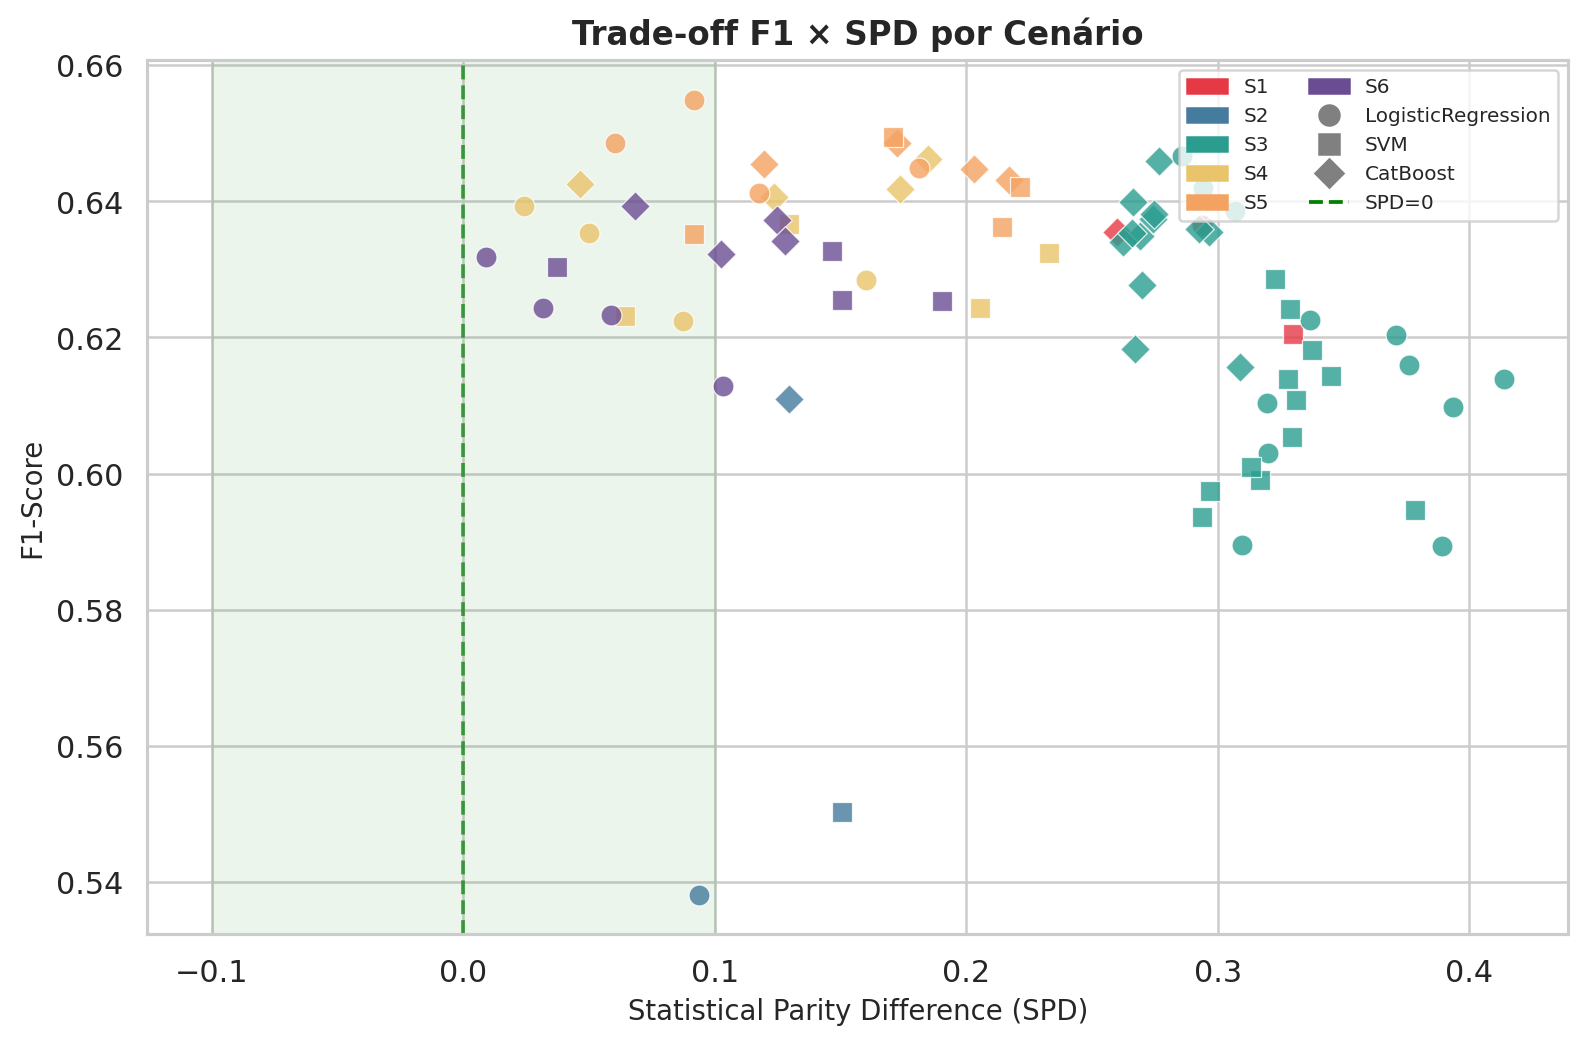
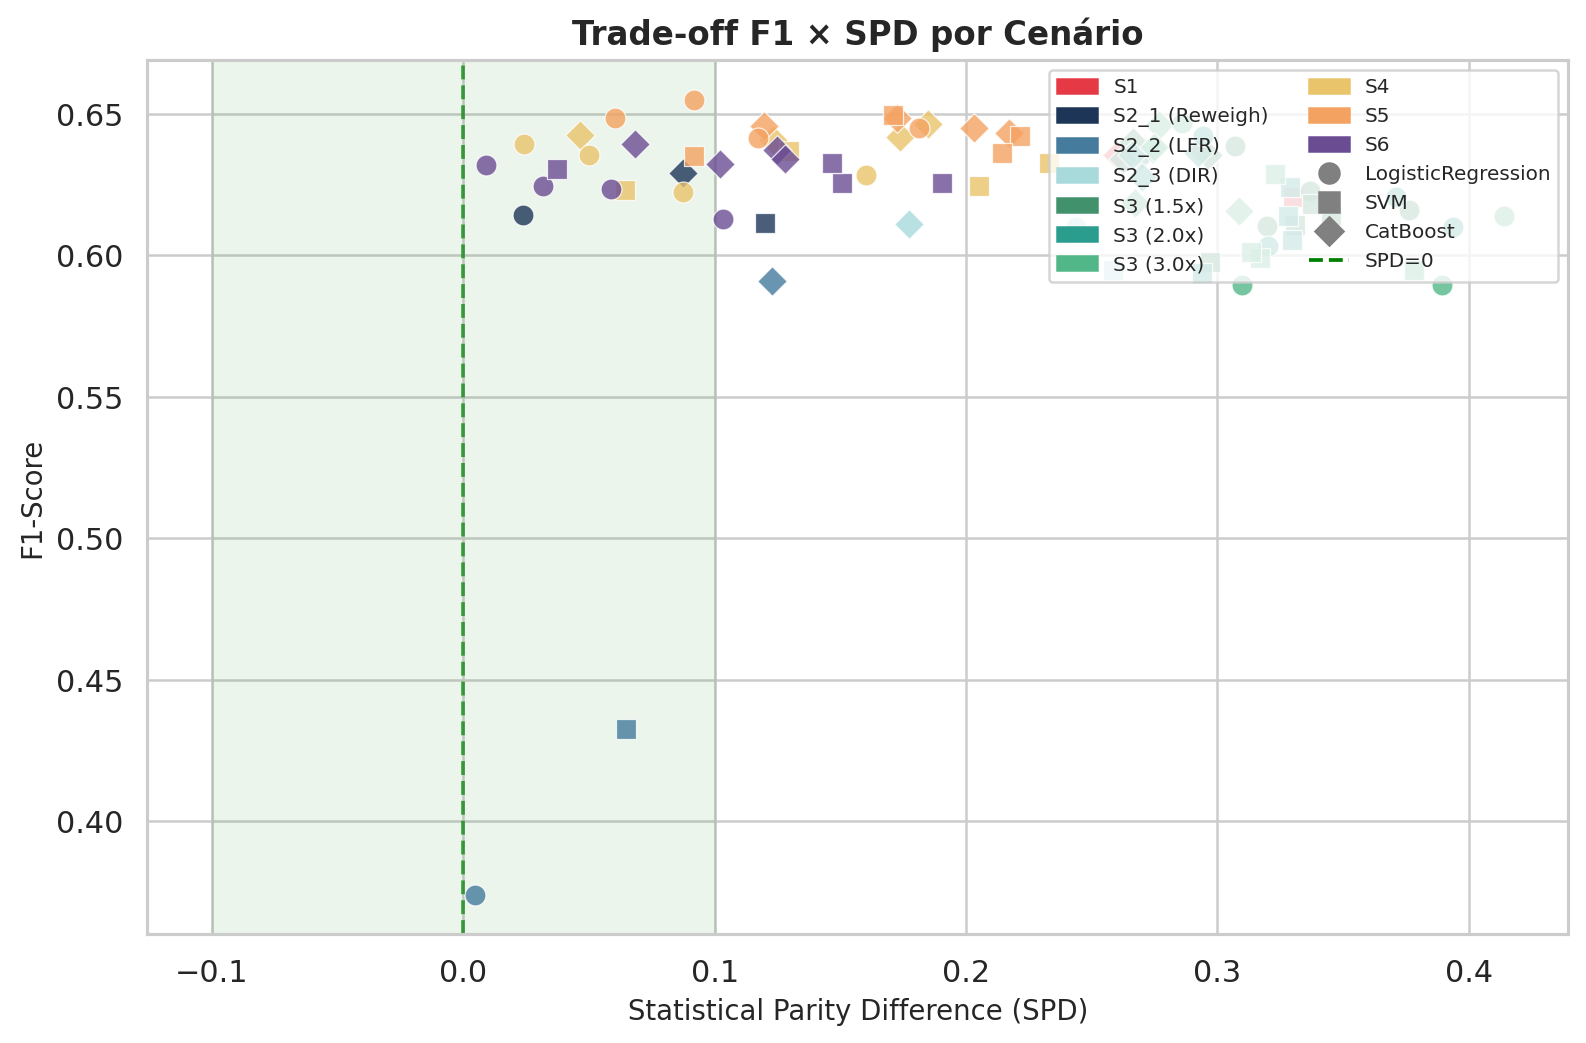
refactor: remove redundant individual plotting script and update paper figures for consistency

diff --git a/scripts/plots/generate_paper_plots.py b/scripts/plots/generate_paper_plots.py
@@ -44,83 +44,69 @@ def simplify_scenario(row):
 
 df['scenario_label'] = df.apply(simplify_scenario, axis=1)
 
-# ── PLOT 1.1: Baseline Bias ──────────────────────────────────────────────────
-print('Plot 1.1 – Baseline bias')
-s1 = df[df['scenario']=='S1']
-metrics_baseline = s1.groupby('model')[['disparate_impact','statistical_parity_difference']].mean().reset_index()
-fig, axes = plt.subplots(1, 2, figsize=(10, 4))
-colors = ['#e63946','#457b9d','#2a9d8f']
-for ax, col, title, ref, reflabel in [
-    (axes[0], 'disparate_impact', 'Disparate Impact (DI)', 1.0, 'Ideal DI=1'),
-    (axes[1], 'statistical_parity_difference', 'Statistical Parity Diff. (SPD)', 0.0, 'Ideal SPD=0'),
-]:
-    bars = ax.barh(metrics_baseline['model'], metrics_baseline[col], color=colors, edgecolor='white', height=0.5)
-    ax.axvline(ref, color='black', linestyle='--', lw=1.5, label=reflabel)
-    ax.set_title(title, fontweight='bold')
-    ax.set_xlabel(col.replace('_',' ').title())
-    for bar, val in zip(bars, metrics_baseline[col]):
-        ax.text(val + 0.01, bar.get_y() + bar.get_height()/2, f'{val:.2f}', va='center', fontsize=9)
-    ax.legend(fontsize=8)
-fig.suptitle('Bias no Baseline (S1) – Motivação do Paper', fontsize=13, fontweight='bold')
-save(fig, 'plot1_1_baseline_bias.png')
-
-# ── PLOT 1.2: Prediction rates by group ──────────────────────────────────────
-print('Plot 1.2 – Prediction rates by group')
-try:
-    pred_files = []
-    pred_dir = 'outputs/predictions'
-    if os.path.exists(pred_dir):
-        for f in os.listdir(pred_dir):
-            if f.endswith('.csv'):
-                pred_files.append(pd.read_csv(os.path.join(pred_dir, f)))
-    if pred_files:
-        preds = pd.concat(pred_files)
-        if 'race' in preds.columns and 'predicted' in preds.columns:
-            rates = preds.groupby(['scenario','race'])['predicted'].mean().reset_index()
-            fig, ax = plt.subplots(figsize=(8,4))
-            for i, sc in enumerate(['S1','S4','S5','S6']):
-                d = rates[rates['scenario']==sc]
-                if len(d) > 0:
-                    ax.bar([i-0.15, i+0.15],
-                           [d[d['race']==0]['predicted'].values[0] if len(d[d['race']==0])>0 else 0,
-                            d[d['race']==1]['predicted'].values[0] if len(d[d['race']==1])>0 else 0],
-                           width=0.28, color=['#e63946','#457b9d'])
-            ax.set_xticks(range(4)); ax.set_xticklabels(['S1','S4','S5','S6'])
-            ax.set_ylabel('Taxa de Predição Positiva')
-            ax.set_title('Predições por Grupo Racial por Cenário')
-            red_p = mpatches.Patch(color='#e63946', label='African-American')
-            blue_p = mpatches.Patch(color='#457b9d', label='Caucasian')
-            ax.legend(handles=[red_p, blue_p])
-            save(fig, 'plot1_2_group_prediction_rates.png')
-except Exception as e:
-    print(f'  skip 1.2: {e}')
-
 # ── PLOT 2.1: Pareto Scatter F1 vs DI ────────────────────────────────────────
 print('Plot 2.1 – Pareto scatter')
 means = df.groupby(['scenario','generator','model'])[['f1','disparate_impact','statistical_parity_difference']].mean().reset_index()
 
-def get_scenario_group(s):
-    if s=='S1': return 'S1'
-    if s.startswith('S2'): return 'S2'
-    if s.startswith('S3'): return 'S3'
-    if s=='S4': return 'S4'
-    if s=='S5': return 'S5'
-    if s=='S6': return 'S6'
-    return s
+# Map each scenario row to a fine-grained sub-group label.
+# S2 splits by mitigator (3 variants), S3 splits by alpha suffix (3 variants).
+_mitigator_map = {}
+for _, row in df[['scenario','mitigator']].drop_duplicates().iterrows():
+    s, m = row['scenario'], row['mitigator'] if pd.notna(row['mitigator']) else 'None'
+    if s == 'S2':
+        if m == 'Reweighing': _mitigator_map[s] = _mitigator_map.get(s, {})
+        _mitigator_map.setdefault(s, {})[m] = m  # will build below
 
-means['sg'] = means['scenario'].apply(get_scenario_group)
-sg_colors = {'S1':'#e63946','S2':'#457b9d','S3':'#2a9d8f','S4':'#e9c46a','S5':'#f4a261','S6':'#6a4c93'}
+# Build scenario → sub-group mapping directly on means
+def get_scenario_group(row):
+    s = row['scenario']
+    if s == 'S1': return 'S1'
+    if s == 'S4': return 'S4'
+    if s == 'S5': return 'S5'
+    if s == 'S6': return 'S6'
+    if s.startswith('S3'):
+        alpha = s.split('_')[1] if '_' in s else '?'
+        return f'S3 ({alpha}x)'
+    return s  # S2_* won't appear; handled below
+
+# For S2 we need the mitigator, which is not in `means` (aggregated by scenario).
+# Re-aggregate including mitigator so each variant stays separate.
+means_s2 = df[df['scenario'] == 'S2'].groupby(
+    ['scenario', 'mitigator', 'generator', 'model']
+)[['f1', 'disparate_impact', 'statistical_parity_difference']].mean().reset_index()
+_s2_label_map = {'Reweighing': 'S2_1 (Reweigh)', 'LFR': 'S2_2 (LFR)', 'DIRemover': 'S2_3 (DIR)'}
+means_s2['sg'] = means_s2['mitigator'].map(_s2_label_map).fillna('S2')
+
+means_other = means[means['scenario'] != 'S2'].copy()
+means_other['mitigator'] = None
+means_other['sg'] = means_other.apply(get_scenario_group, axis=1)
+
+means_full = pd.concat([means_other, means_s2], ignore_index=True)
+
+# Color palette – S2 sub-groups get shades of blue, S3 sub-groups shades of teal
+sg_colors = {
+    'S1':             '#e63946',
+    'S2_1 (Reweigh)': '#1d3557',
+    'S2_2 (LFR)':     '#457b9d',
+    'S2_3 (DIR)':     '#a8dadc',
+    'S3 (1.5x)':      '#40916c',
+    'S3 (2.0x)':      '#2a9d8f',
+    'S3 (3.0x)':      '#52b788',
+    'S4':             '#e9c46a',
+    'S5':             '#f4a261',
+    'S6':             '#6a4c93',
+}
 
 fig, ax = plt.subplots(figsize=(9, 6))
 ax.axvspan(0.8, 1.25, alpha=0.08, color='green', label='Zona de Fairness (80% rule)')
 ax.axvline(1.0, color='green', linestyle='--', lw=1.2, alpha=0.6)
 ax.axvline(0.8, color='red', linestyle='--', lw=1, alpha=0.5)
 ax.axvline(1.25, color='red', linestyle='--', lw=1, alpha=0.5)
-for sg, grp in means.groupby('sg'):
+for sg, grp in means_full.groupby('sg'):
     for model, mgrp in grp.groupby('model'):
         ax.scatter(mgrp['disparate_impact'], mgrp['f1'],
-                   color=sg_colors.get(sg,'gray'),
-                   marker=MODEL_MARKERS.get(model,'o'),
+                   color=sg_colors.get(sg, 'gray'),
+                   marker=MODEL_MARKERS.get(model, 'o'),
                    s=70, alpha=0.8, edgecolors='white', linewidths=0.5)
 legend_sc = [mpatches.Patch(color=c, label=sg) for sg, c in sg_colors.items()]
 legend_mod = [plt.Line2D([0],[0], marker=m, color='gray', linestyle='None', markersize=8, label=mod)
@@ -137,11 +123,11 @@ print('Plot 2.2 – Scatter F1 vs SPD')
 fig, ax = plt.subplots(figsize=(9, 6))
 ax.axvline(0.0, color='green', linestyle='--', lw=1.5, alpha=0.7, label='SPD ideal=0')
 ax.axvspan(-0.1, 0.1, alpha=0.08, color='green')
-for sg, grp in means.groupby('sg'):
+for sg, grp in means_full.groupby('sg'):
     for model, mgrp in grp.groupby('model'):
         ax.scatter(mgrp['statistical_parity_difference'], mgrp['f1'],
-                   color=sg_colors.get(sg,'gray'),
-                   marker=MODEL_MARKERS.get(model,'o'),
+                   color=sg_colors.get(sg, 'gray'),
+                   marker=MODEL_MARKERS.get(model, 'o'),
                    s=70, alpha=0.8, edgecolors='white', linewidths=0.5)
 ax.legend(handles=legend_sc+legend_mod+[plt.Line2D([0],[0], color='green', linestyle='--', label='SPD=0')],
           loc='upper right', fontsize=8, ncol=2)
@@ -216,17 +202,6 @@ axes[0].set_title('F1 vs. Razão de Augmentação (S3)', fontweight='bold')
 axes[1].set_title('DI vs. Razão de Augmentação (S3)', fontweight='bold')
 save(fig, 'plot4_1_augmentation_ratio.png')
 
-# ── PLOT 4.2: Heatmap DI generator × ratio ───────────────────────────────────
-print('Plot 4.2 – Heatmap DI generator × ratio')
-pivot_s3 = s3.groupby(['generator','ratio'])['disparate_impact'].mean().unstack()
-fig, ax = plt.subplots(figsize=(7, 4))
-sns.heatmap(pivot_s3, annot=True, fmt='.2f', cmap='RdYlGn_r', center=1.0, ax=ax,
-            linewidths=0.5, annot_kws={'size':9})
-ax.set_title('DI Médio por Gerador × Razão Augmentação (S3)', fontweight='bold')
-ax.set_xlabel('Razão de Augmentação')
-ax.set_ylabel('Gerador')
-save(fig, 'plot4_2_heatmap_di_generator_ratio.png')
-
 # ── PLOT 6.1: Wilcoxon heatmap (recalculated from raw data) ─────────────────
 print('Plot 6.1 – Wilcoxon heatmap (full scenarios)')
 
@@ -298,15 +273,9 @@ for metric_label, p_col in [('F1', 'p_f1'), ('DI', 'p_di')]:
         annot_kws={'size': 7}, cbar_kws={'label': 'p-value'}
     )
     # Mark significant cells with border
-    for i in range(piv.shape[0]):
-        for j in range(piv.shape[1]):
-            val = piv.iloc[i, j]
-            if not np.isnan(val) and val < 0.05:
-                ax.add_patch(plt.Rectangle((j, i), 1, 1, fill=False,
-                             edgecolor='black', lw=1.5))
     ax.set_title(
         f'Wilcoxon p-valores – {metric_label}\n'
-        f'(verde = p<0.05 = significativo  |  borda preta = significativo)',
+        f'(verde = p<0.05 = significativo)',
         fontweight='bold', fontsize=11
     )
     ax.set_xlabel('Gerador | Modelo', fontsize=10)
@@ -317,66 +286,3 @@ for metric_label, p_col in [('F1', 'p_f1'), ('DI', 'p_di')]:
 
 print('\nDone! Plots saved to', OUT)
 
-def add_extra_plots():
-    # ── PLOT 3.3: Grouped bars F1 and DI by scenario × model ──────────────
-    print('Plot 3.3 – Grouped bars')
-    key_scenarios = ['S1\nBaseline','S2\nReweigh','S4\nMinority','S5\nCombined','S6\nRew+Synth']
-    sub = df[df['scenario_label'].isin(key_scenarios)]
-    fig, axes = plt.subplots(1, 2, figsize=(14, 5))
-    for ax, metric, ylabel, title in [
-        (axes[0], 'f1', 'F1-Score', 'F1-Score por Cenário × Modelo'),
-        (axes[1], 'disparate_impact', 'Disparate Impact', 'DI por Cenário × Modelo'),
-    ]:
-        agg = sub.groupby(['scenario_label','model'])[metric].mean().reset_index()
-        models = agg['model'].unique()
-        x = np.arange(len(key_scenarios))
-        w = 0.25
-        mc = {'LogisticRegression':'#4cc9f0','SVM':'#f72585','CatBoost':'#7209b7'}
-        for i, model in enumerate(models):
-            vals = [agg[(agg['scenario_label']==sc)&(agg['model']==model)][metric].values
-                    for sc in key_scenarios]
-            vals = [v[0] if len(v)>0 else 0 for v in vals]
-            ax.bar(x + i*w - w, vals, width=w, label=model, color=mc.get(model,'gray'), alpha=0.85)
-        if metric == 'disparate_impact':
-            ax.axhline(1.0, color='green', linestyle='--', lw=1.2, label='DI=1')
-            ax.axhline(0.8, color='red', linestyle=':', lw=1, label='Limite 80%')
-        ax.set_xticks(x)
-        ax.set_xticklabels(key_scenarios, fontsize=8)
-        ax.set_ylabel(ylabel)
-        ax.set_title(title, fontweight='bold')
-        ax.legend(fontsize=8)
-    save(fig, 'plot3_3_grouped_bars_f1_di.png')
-
-    # ── PLOT 5.3: Radar chart ─────────────────────────────────────────────
-    print('Plot 5.3 – Radar quality')
-    gens = ['GaussianCopula','CTGAN','TVAE','TabDDPM']
-    s4_df = df[df['scenario']=='S4']
-    radar_data = s4_df.groupby('generator').agg(
-        f1=('f1','mean'),
-        di=('disparate_impact','mean'),
-        spd=('statistical_parity_difference','mean'),
-        auc=('auc_roc','mean')
-    ).reindex(gens)
-    radar_data['fairness_score'] = 1 - radar_data['di'].sub(1).abs().clip(0,1)
-    radar_data['spd_score'] = 1 - radar_data['spd'].abs().clip(0,1)
-    cols = ['f1','auc','fairness_score','spd_score']
-    labels = ['F1-Score','AUC-ROC','Fairness (DI)','Fairness (SPD)']
-    N = len(cols)
-    angles = np.linspace(0, 2*np.pi, N, endpoint=False).tolist()
-    angles += angles[:1]
-    fig, ax = plt.subplots(figsize=(7,7), subplot_kw=dict(polar=True))
-    for gen in gens:
-        vals = radar_data.loc[gen, cols].tolist()
-        vals_norm = [(v - 0.5) / 0.5 for v in vals]
-        vals_norm += vals_norm[:1]
-        ax.plot(angles, vals_norm, linewidth=2, label=gen, color=GENERATOR_PALETTE.get(gen,'gray'))
-        ax.fill(angles, vals_norm, alpha=0.08, color=GENERATOR_PALETTE.get(gen,'gray'))
-    ax.set_xticks(angles[:-1])
-    ax.set_xticklabels(labels, fontsize=10)
-    ax.set_title('Qualidade dos Geradores – S4 (Normalizado)', fontweight='bold', pad=20)
-    ax.legend(loc='upper right', bbox_to_anchor=(1.3, 1.1), fontsize=9)
-    ax.set_ylim(-0.5, 0.5)
-    save(fig, 'plot5_3_radar_generator_quality.png')
-
-add_extra_plots()
-print('All extra plots done.')

diff --git a/scripts/plots/plot_data_analysis_fairness.py b/scripts/plots/plot_data_analysis_fairness.py
@@ -1,5 +1,4 @@
 """
-Script para gerar gráficos individuais solicitados:
 1. Bhattacharyya Overlap Coefficient (T5a)
 2. PCA 2D (T5b)
 3. Bootstrap Disparate Impact (DI)
@@ -64,7 +63,7 @@ def di_from_pred(y_pred, sensitive):
     return p[s == 0].mean() / pr1 if pr1 > 0 else np.nan
 
 def main():
-    print("Iniciando processamento de gráficos individuais...")
+    
     data = load_compas()
     TARGET    = 'two_year_recid'
     SENSITIVE = 'race'
